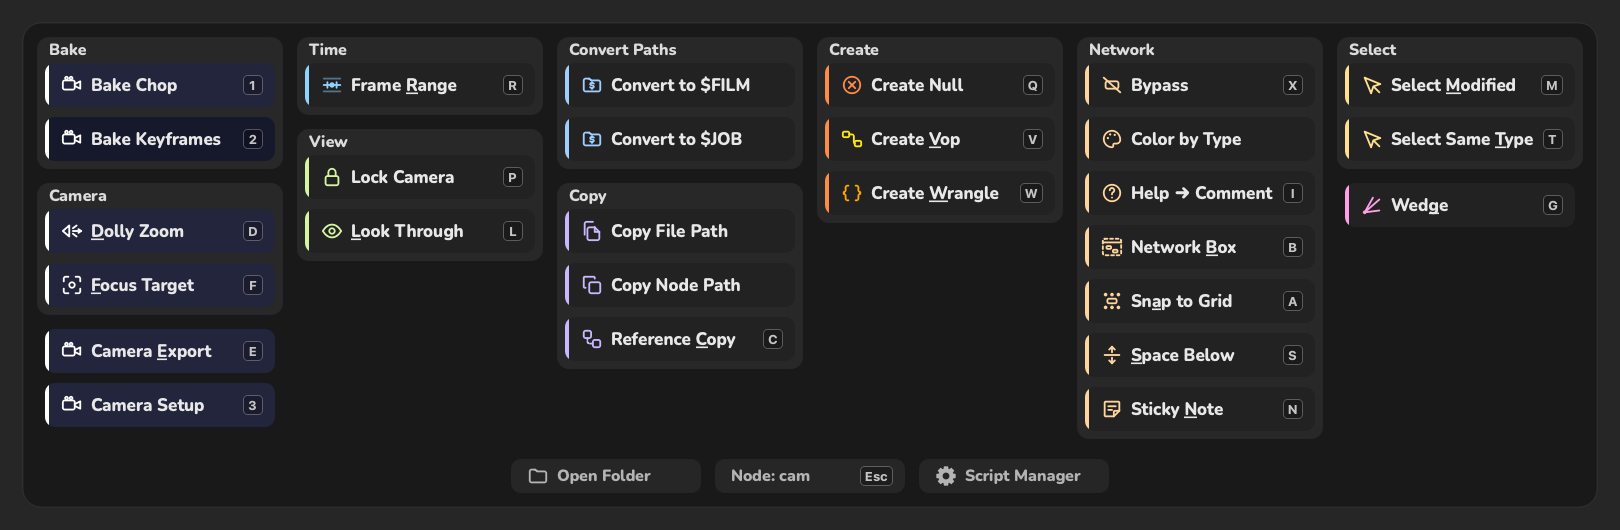
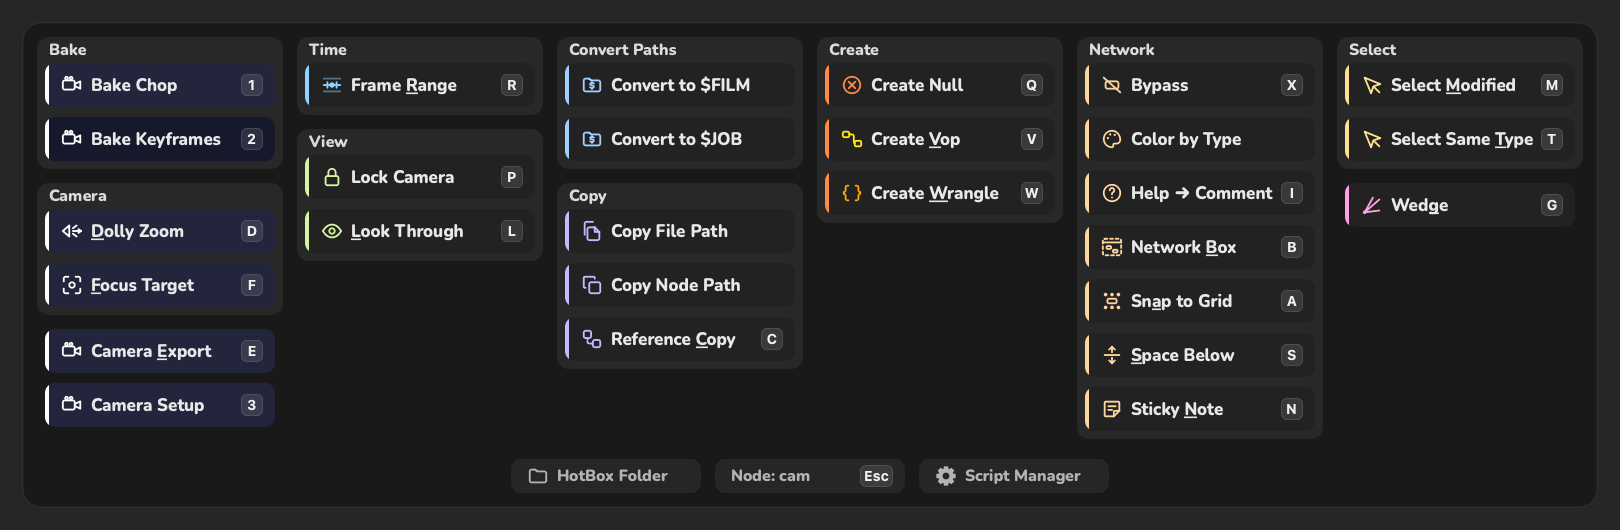
README: shorter, with the Solaris menu; images rendered from the current look

diff --git a/docs/make_images.py b/docs/make_images.py
@@ -86,6 +86,14 @@ def main():
     app.processEvents()
     onBackground(box).save((DOCS / "menu.png").as_posix())
 
+    utility.detectContext = lambda: utility.Context("all", "Lop", "Lop", None)  # Solaris, nothing selected
+    lop_box = hotbox_main.HotBox(lib_dir=Path("lib"))
+    lop_box.finishAppear()
+    app.processEvents()
+    onBackground(lop_box).save((DOCS / "menu_lop.png").as_posix())
+    lop_box.close()
+    utility.detectContext = lambda: utility.Context("single", "cam", "cam", None)
+
     # Animation: the buttons grow in from the cursor, then hover one button and move to another
     frames = []
 

diff --git a/README.md b/README.md
@@ -1,260 +1,126 @@
 # HotBox
 
-A popup under the mouse with buttons for your own Python scripts in Houdini 21+.
-Inspired by [W_hotbox](https://github.com/melMass/W_hotbox) for Nuke (the idea of the hotbox and the Script Manager),
-written from scratch for Houdini.
-HotBox is an orchestrator: it doesn't do anything by itself, it finds the scripts in `lib/`, shows the ones that fit
-what you are doing and runs them.
+**Your scripts, one keystroke away.** A popup that blooms under the cursor in Houdini 21+ and shows only the
+buttons that fit what you're doing: one camera, a pile of SOPs, an empty Solaris network.
+
+HotBox does nothing by itself. It finds the scripts in `lib/`, picks the ones for the moment and runs them.
+The idea comes from [W_hotbox](https://github.com/melMass/W_hotbox) for Nuke; the code is written from scratch for Houdini.
 
 <p align="center">
-  <img src="docs/menu.png" width="49%" alt="HotBox with one camera selected">
-  <img src="docs/hover.gif" width="49%" alt="Hover wave and zoom">
+  <img src="docs/menu.png" width="49%" alt="HotBox with a camera selected">
+  <img src="docs/hover.gif" width="49%" alt="Buttons growing in, hover wave">
 </p>
 
-## What it shows
+## In the hand
 
-| Selection | Folder | Columns |
-|---|---|---|
-| nothing | `lib/all/` | scripts of the current network type (`Sop/`, `Lop/`, `Object/`, `Driver/`…) + root scripts |
-| several nodes | `lib/multiple/` | scripts of the network type + root scripts |
-| one node | `lib/single/` | scripts of the node type (`cam/`, `null/`…) + root scripts |
+- **Context.** The folder that matches the selection and network decides which buttons show:
 
-Deeper folders (`lib/all/Lop/Instances/`) are not shown.
+  | Selection | Folder | Buttons |
+  |---|---|---|
+  | nothing | `lib/all/` | the network type (`Sop/`, `Lop/`, `Object/`…) + root scripts |
+  | several nodes | `lib/multiple/` | the network type + root scripts |
+  | one node | `lib/single/` | the node type (`cam/`, `null/`…) + root scripts |
 
-Buttons go top to bottom in columns (context scripts, then root scripts), at most 6 per column, and
-each column goes down at its own pace. Single buttons and `#group` blocks are sorted by group name /
-label (not by file names). A group is a framed block with a caption; it is never split between columns (a group
-with one button is framed too). The stripe of the buttons of a group has the group color (the color of its first
-button), icons keep the color of their script.
+- **Hotkeys.** Each button has one in a keycap. They also work in the Russian layout (`f` = `а`). `Esc` closes.
+- **Search.** `Tab` and a few letters: the rest fades away, `Enter` runs the first match.
+- **Groups.** `#group` frames buttons under a caption. A group always keeps its place, so muscle memory holds.
+- **One undo.** Everything a script does undoes in one step. If it fails, you get the traceback and a jump to the
+  failing line.
 
-A button is one line: the script color on the stripe and the icon (line icons from `icons/` take the color, Houdini
-icons keep theirs), the label in neutral grey with the hotkey letter underlined, the hotkey in a keycap on the right.
-Hover a button for what the script does (the first comment of its code or the docstring of `main()`) and what it works
-on. The buttons stand on a dark backdrop, so the network behind doesn't mix with them.
+<p align="center"><img src="docs/menu_lop.png" width="80%" alt="HotBox in a Solaris network"></p>
 
-Bottom row, lower and quieter: open the HotBox folder · where the hotbox opened (`Network: Sop`, `Node: cam`,
-`Nodes: Sop`; click or `Esc` closes) · Script Manager.
-`Esc` or `` ` `` closes the hotbox, so does a click anywhere that is not a button (outside or between buttons). Clicking a button or pressing its hotkey closes the hotbox and runs the script.
-Hotkeys work in the Russian keyboard layout too (the same physical key: `f` = `а`).
-Everything a script does is one undo step.
+## Writing a button
 
-**Tab** starts search: type a part of a label (in any keyboard layout), the other buttons fade out, `Enter` runs the
-first match, `Esc` or `Tab` ends the search.
-
-Animations: on opening the buttons grow in from their centers with a small spring, starting at the cursor and
-spreading outwards (farther buttons come a bit later). On hover a white wave spreads from the cursor, the button gets lighter and a bit bigger (with the text).
-Closing plays it in reverse: the buttons swell a little and shrink to their centers, the farthest from the cursor
-first. On click or hotkey the pressed button grows and fades out while the others shrink away, then the script runs.
-
-## Adding a script
-
-Drop a `.py` file into the right folder. Its button is described by the first comment lines:
+Drop a `.py` file into the right folder. A few comment lines describe its button, and every one is optional:
 
 ```python
 #label:Create Null
-#textcolor:#ff8b48
-#buttoncolor:#22253b
-#icon:app_dino_dance.svg
-#hotkey:n
-#group:Nodes
+#group:Create
+#hotkey:q
+#icon:null.svg             # a file in icons/ or any Houdini icon: SOP_null, LOP_fetch…
+#textcolor:#ff8b48         # stripe and line icon
+#package:studio-name       # shown only when the package is on
 
 import hou
-...
+for node in hou.selectedNodes():
+    ...
 ```
 
-Write scripts for any number of selected nodes (`for node in hou.selectedNodes()`): then one script serves
-`lib/single/` and `lib/multiple/`.
-
-### The same tool in another mode: `#ref`
-
-A file with only a header runs another script from `lib/`:
+To reuse a tool in another context, write a header-only file. It inherits everything except the hotkey:
 
 ```python
 #ref:single/create_null.py
 #hotkey:n
 ```
 
-It takes the label, colors, icon and group of the target (its own header overrides them); the hotkey is not
-inherited, choose it per context. A broken reference (file renamed, loop) shows a red button with the reason
-in the tooltip; the tests check every `#ref` in `lib/`.
+Or skip the typing and use the **Script Manager**: fields for every key, a hotkey recorder that names clashes, an
+icon browser, a live preview, and a code panel that slides out.
 
-![Script Manager](docs/manager.png)
+<p align="center"><img src="docs/manager.png" width="80%" alt="Script Manager"></p>
 
-Or edit them in the **Script Manager** (bottom right button, the DinoWrite look, with a live animated preview of
-the button; like the buttons, its windows grow in from the center with a spring and shrink away on close): it writes the header back into the script and warns
-about hotkeys already used by scripts shown together with it and about missing icons. For a `#ref` it edits only
-the reference's own header (inherited values are shown greyed out); the **Ref** field sets or changes the target.
-Ref and Package complete existing values inline (Tab accepts), the arrow next to them lists them.
-The fields go Name → Group → Hotkey → Icon → Accent (stripe and line icon, `#textcolor`) → Background
-(`#buttoncolor`); Ref and Package are folded under **Advanced** (open by themselves for a script that uses them).
-**Hotkey**: click the field and press the key (shown as its keycap, `K`; Backspace clears); a key taken by a script
-shown together with this one is named right away (`K is taken: Background`). The script list shows button names with
-the file in grey under them and the hotkey on the right; the search field above it finds scripts of every folder of the
-mode by name or file. Right click a script: Duplicate (`name_copy.py`, without the hotkey), Open file, Delete (the
-question names the scripts that `#ref` it). Unsaved changes put a dot in the title and turn Save on; switching to
-another script or closing asks whether to save them. The footer shows `hotbox/lib/...`, the full path in its tooltip.
-**+ New script** (Ctrl+N) creates the file right there: name (the file name follows it), mode, folder (existing
-folders, the selected node type or network types are offered) and, with `HOTBOX_PATH`, which lib folder to save in;
-the new script opens in the code panel with a starting body for its mode.
-**Code ›** slides out a code editor (Python highlighting): the script's code, or the target's code for a `#ref`;
-Save writes the header and the code.
+## Your own library
 
-All keys are optional (the label defaults to the file name). `#icon` is a file in `icons/` (`save.svg`) or a
-Houdini icon name, the one `node.type().icon()` returns (`SOP_attribwrangle`, `SOP_null`, `OBJ_camera`, `LOP_fetch`...).
-The grid button next to the Icon field browses them: Houdini's own icons by category (SOP, OBJ, LOP...) and the
-HotBox ones, with search; double click or Choose puts the name into the field.
-**+ Add icons…** copies your `.svg` / `.png` / `.jpg` files into `icons/` of your first `HOTBOX_PATH` folder (without
-`HOTBOX_PATH`: into `hotbox/icons/`); they show up under HotBox and `#icon:my_tool.svg` finds them.
-The script runs as `__main__`, `sys.exit()` just stops it. When it fails, a window shows the error and the traceback;
-**Open in Script Manager** opens the script with the failing line highlighted in the code panel.
-
-### Your own scripts: `HOTBOX_PATH`
-
-Keep personal and studio scripts outside the tool folder, so `git pull` never touches them:
+Keep personal and studio scripts outside the tool, so `git pull` never touches them:
 
 ```
-HOTBOX_PATH = "$HOME/houdini_scripts/hotbox_lib;//server/pipeline/hotbox_lib"
+HOTBOX_PATH = "$HOME/hotbox_lib;//server/pipeline/hotbox_lib"
 ```
 
-Each folder has the same layout as `lib/` (`all/`, `multiple/`, `single/`), plus `icons/` for your icon files. Folders are searched in order, the
-built-in `lib/` last: a script hides the one with the same path in later folders (your `single/create_null.py`
-replaces the built-in one), and `#ref` targets are looked up the same way. The Script Manager marks scripts from
-these folders with the folder name; "HotBox Folder" opens the first one. Separator: `;` (`:` works too on
-Linux/macOS).
+Each folder mirrors `lib/` and may hold its own `icons/`. Earlier folders win, and the built-in `lib/` comes last.
 
-The package switches are saved per user in `$HOUDINI_USER_PREF_DIR/hotbox/settings.json`.
+**Packages** keep studio-only buttons out of other people's way. New packages start **off**. You switch them with
+the gear in the Script Manager, and your choice is saved in your Houdini prefs. A studio can turn some on for
+everyone with `HOTBOX_PACKAGES = "studio-name"`.
 
-### Packages: studio specific scripts
+<img src="docs/packages_window.png" width="360" alt="Packages">
 
-Scripts that only make sense at one studio go into a package:
+## What ships
+
+| Where | Buttons |
+|---|---|
+| **Solaris**, nothing selected | Fetch · SOP Import with Karma velocity blur · Material Library · Jump to Material · Material Report · Set Variant · Prims to Node… · Stage Files (every layer, reference and texture; missing ones first) · Show as USDA · Prim Paths ([DionysUSD](https://github.com/matzubr/DionysUSD)) |
+| SOPs, nulls, caches | To Solaris · Volume to Solaris · Cache Network · Frame Range · Version Up · Open Folder · Object Merge |
+| any node | Create Null / Wrangle / Vop · Network Box · Sticky Note · Snap to Grid · Color by Type · Copy Path · Convert to `$JOB` / `$FILM` · Select Same / Modified |
+| wrangles, OpenCL, Python | Snippets ([mnemo](https://github.com/matzubr/mnemo)) |
+| cameras, lights | Look Through · Lock · Dolly Zoom · Focus Target · Bake |
+| anywhere | Flipbook ([DinoWrite](https://github.com/matzubr/DinoWrite)) · Missing Files · Reload Caches · Save Incremental · Recover Crash |
+
+Ideas borrowed from other libraries ship as packages named after them (`qLib`, `Aelib`, `LV-Tools`, `BeeHou`…), all
+off by default. The code is HotBox's own. Shared pieces live in `common/` (`usd`, `solaris`, `nodes`, `paths`,
+`frames`, `layout`…), ready for your scripts too:
 
 ```python
-#label:Camera Import
-#package:studio-name
+from hotbox.common import usd
+usd.pickedPaths()
 ```
-
-The gear in the Script Manager title bar lists all packages with a switch each. A turned off package hides its
-buttons (and its `#ref`s) from the hotbox; scripts without `#package` are always shown. Several packages:
-`#package:studio-name, other-studio` (shown when any of them is on).
-
-<img src="docs/packages_window.png" width="380" alt="Packages">
-
-New packages are **off** by default, so a copied HotBox doesn't show someone else's studio buttons. The choice is
-saved per user in `$HOUDINI_USER_PREF_DIR/hotbox/settings.json` (not in the tool folder). A studio can turn
-packages on for everyone in `houdini.env`; the user's own switch still wins:
-
-```
-HOTBOX_PACKAGES = "studio-name"
-```
-
-The studio specific scripts in `lib/` (Camera Import/Export/Setup, Last Alembic Track, Convert to $FILM, Save HIP)
-are in packages: turn them on in the gear menu if you need them.
-
-### Shipped scripts
-
-| Where | Scripts |
-|---|---|
-| everywhere, nothing selected | Flipbook, **Scene**: Missing Files (pick to jump to the nodes), Reload Caches |
-| Object, nothing selected | Camera from View (new camera at the viewport view, looks through it) |
-| Sop, nothing selected | Object Merge Relative / Absolute (from node paths in the clipboard) |
-| Lop, nothing selected | Fetch Relative / Absolute, SOP Import (prims at `/$OS`, the import node name, followed by Render Geometry Settings: Karma geometry + instance velocity blur, Set or Create), **Materials**: Material Library + Assign, Jump to Material (of the prim picked in the viewer: selects the material node that makes it), Material Report (materials of the shown stage with prim counts, prims without a material get picked), **Solaris**: Prim Paths (opens [DionysUSD](https://github.com/matzubr/DionysUSD) on the network, when it is installed), Set Variant (variants of the picked prim and its parents → Set Variant LOP), Stage Files (USD dependencies: layers, references, payloads, textures the stage reads; missing first, UDIMs too), Show as USDA (the displayed node's layer or the flattened stage in your editor), Prims to Node… (picked prims → Prune / Configure Primitive / Edit Properties / Edit / Collection) |
-| any node(s) selected | **Create**: Vop / Wrangle / Null, Convert Paths, **Copy**: Node Path / File Path, **Network**: Network Box (name, padding in screen pixels, default 15 and remembered; grey after black of the Houdini palette, Color... picks another), Color by Type |
-| several nodes | Explode Nodes, Object Merge Paste, Frame Range (all of them together) |
-| wrangles (attrib SOP / LOP, volume, pop, geometry, gas field), OpenCL (SOP, Gas OpenCL, Copernicus), Python SOP, Python Script LOP | **Code**: Snippets (opens [mnemo](https://github.com/matzubr/mnemo): search the snippets, Enter inserts into the node, when it is installed) |
-| null | Render Node (`RENDER_` geo object under the current one, never on top of other nodes) |
-| null, several SOPs | **Solaris**: To Solaris (SOP Import in `/obj/lopnet1`, created when missing, prims at `/$OS` = `/IMPORT_<name>`, + Render Geometry Settings with geometry + instance velocity blur, its prim pattern tied to the import's path prefix) |
-| filecache, file, rop_geometry with a `.vdb` | **Solaris**: Volume to Solaris (Volume LOP in `/obj/lopnet1`, prim `/vol/<name>`, the sequence as `$F4` with `$HIP`/`$JOB` kept, sampled over the frames on disk or the node's range) |
-| cam / hlight | Look Through (again: back to perspective), Camera Bake, Frame Range |
-| alembic, alembicarchive, filecache, file | Frame Range: scene and playback range from the Alembic animation or the sequence on disk |
-| any node(s) selected | **Network**: Snap to Grid (onto the Network Editor grid, never on top of another node) |
-| cache nodes (filecache, rop_geometry...) | Cache Network: a TOP (ROP Fetch + Wait for All) or ROP (Fetch) network writing them upstream first; more cache types in `CACHE_TYPES` of `lib/multiple/cache_network.py` |
-
-Tools seen in other Houdini libraries come as packages named after the library (all off by default,
-[AwesomeHoudini](https://github.com/wyhinton/AwesomeHoudini) lists them). The code here is HotBox's own:
-
-| Package | Scripts |
-|---|---|
-| `qLib` | Recover Crash, Jump to Path, **Viewport**: Templates / Guides / Background / Time-Dep. Badges, **Select**: Bypassed / Animated (time-dependent) / Modified / Same Type, Sticky Note (no background, white large text), Reference Copy, Compile Block (Sop), Bypass, Open Folder (file nodes, ROPs), Open in MPlay (file), Dolly Zoom (cam) |
-| `Aelib` | Save Incremental, Open HIP Folder, Lock Camera (cam, hlight) |
-| `LV-Tools` | Space Below (one node), Wedge (Wedge -> ROP Geometry Output for picked parameters), Load Wedges (ropgeometry TOP: File SOP per written wedge + Switch), Transfer Transform (two objects), Cache Size (filecache) |
-| `BeeHou` | Focus Target (cam: a null that drives the focus distance) |
-| `AutoCacheOut` | Version Up (filecache) |
-| `HelpToComment` | Help → Comment (the help summary as the node comment) |
-
-### Shared helpers: `common/`
-
-Small pieces several scripts need, split by topic (whole tools stay scripts in `lib/`):
-
-| Module | |
-|---|---|
-| `common/panes.py` | Network Editor / Scene Viewer under the cursor, status bar warnings |
-| `common/nodes.py` | node paths from the clipboard, Object Merge / Fetch / SOP Import at the cursor, attrib VOP/wrangle under the selection, a free spot for a new node |
-| `common/paths.py` | file parameters of a node and of the scene, `$JOB`/`$FILM` path conversion, missing files, reload of file nodes |
-| `common/frames.py` | frame range of a node: Alembic animation, file sequence on disk, keyframes |
-| `common/layout.py` | Network Editor grid step, snapping to it without overlaps, making space |
-| `common/hipfile.py` | incremental hip names, crash files and backups, opening a folder in Finder / Explorer |
-| `common/solaris.py` | SOP Import / Volume LOP in `/obj/lopnet1`, Render Geometry Settings with velocity blur |
-| `common/caches.py` | the ROP of a cache node, TOP / ROP networks writing caches in dependency order |
-| `common/wedge.py`, `common/mplay.py` | Wedge TOP for parameters, image sequences in MPlay |
-
-```python
-from hotbox.common import paths
-
-paths.convertPaths("$JOB")
-```
-
-Headers are read from the files every time the hotbox opens: nothing is cached, nothing is written into the tool folder.
-The folder can be copied from user to user as is.
-
-> Older versions kept a `lib/<mode>/schema.json` cache with absolute paths of the machine it was created on, and it
-> had to be deleted after copying the tool to another user. It isn't used any more: delete leftover `schema.json`
-> files, they are ignored by git.
 
 ## Install
 
-**As a Houdini package** (recommended): clone the repo anywhere, then copy `hotbox.json` into
-`$HOUDINI_USER_PREF_DIR/packages/` (e.g. `~/houdini21.0/packages/`, create the folder if needed) and set the path:
+As a **Houdini package**: clone the repo anywhere, copy `hotbox.json` into `$HOUDINI_USER_PREF_DIR/packages/`, then
+set the path:
 
 ```json
 {"HOTBOX_DIR": "D:/tools/hotbox"}
 ```
 
-After a Houdini restart there is a **HotBox** shelf with two tools: *HotBox* (give it a hotkey in the Hotkey
-Manager, search "HotBox") and *HotBox Scripts* (the Script Manager). Updating is `git pull`; the tool folder has no
-personal files.
+A **HotBox** shelf appears with two tools. Give *HotBox* a hotkey in the Hotkey Manager. To update, run `git pull`;
+code reloads on the next open.
 
-**By hand**: put the `hotbox` folder into `python3.11libs` of your Houdini preferences
-(e.g. `~/houdini21.0/python3.11libs/hotbox`) and make a hotkey or shelf tool:
+By hand, put the folder into `python3.11libs/` and bind:
 
 ```python
 import hotbox
 hotbox.show()
 ```
 
-Updated code is reloaded automatically on the next `show()` (no Houdini restart). The old
-`from hotbox import main; main.start()` still works.
-
-Camera Import / Camera Export use the studio `cam_tools` library: set its folder in `houdini.env`:
-
-```
-CAM_TOOLS_PATH = "//<server>/tools/py_libs/camera_exchanger"
-```
-
-The Flipbook button runs [DinoWrite](https://github.com/matzubr/DinoWrite), installed next to `hotbox`.
-
 ## Development
-
-Houdini imports the folder directly; [uv](https://docs.astral.sh/uv/) is only for dev tooling (Python 3.11 like Houdini 21,
-PySide6 for offscreen GUI tests, `hou` is stubbed). The repo folder must be named `hotbox`.
 
 ```bash
 uv sync
-uv run pytest
-uv run ruff check __init__.py main.py common utils tests
-uv run python docs/make_images.py   # README images (needs ffmpeg)
+uv run pytest                        # hou is stubbed, Qt runs offscreen
+uv run ruff check .
+uv run python docs/make_images.py    # these images (needs ffmpeg)
 ```
 
-## Credits
-
-Buttons use [Nunito](https://github.com/googlefonts/nunito) ExtraBold (`fonts/`, a static cut of the variable font),
-SIL Open Font License 1.1, see `fonts/OFL.txt`.
+The repo folder must be named `hotbox`. The font is [Nunito](https://github.com/googlefonts/nunito) ExtraBold,
+SIL OFL 1.1 (`fonts/OFL.txt`).
